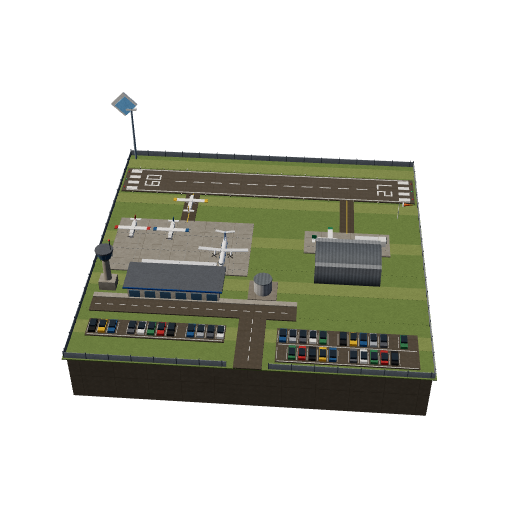
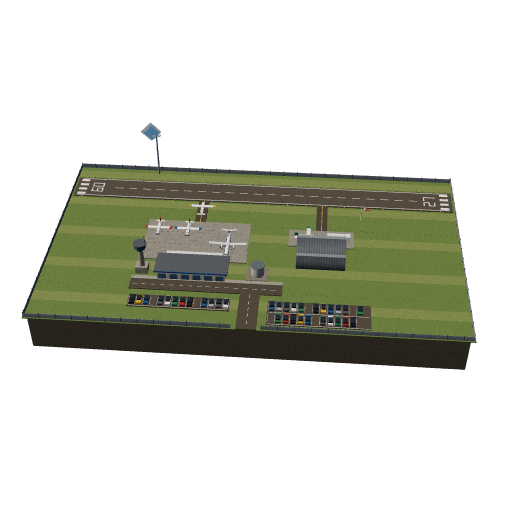
Airport 5x3 in the wiki data, pictures, blurb and docs; footprint notes in the art brief

Changed region(s): [[0.0312, 0.1875, 0.9375, 0.8125]]

diff --git a/src/sim/defs.ts b/src/sim/defs.ts
@@ -398,7 +398,7 @@ const DEFS = {
   } as SiteDef,
   airport: {
     label: 'Airport',
-    blurb: 'An air cargo terminal on a 3x3 field: the runway runs across the back and the road comes in at the front. Goods are loaded onto cargo planes here, and unloaded and sent into town when planes land. Upgrades build out the terminal, from airfield to regional to international.',
+    blurb: 'An air cargo terminal on a 5x3 field: a long runway runs across the back and the road comes in at the front, where an arrow shows the turn. Goods are loaded onto cargo planes here, and unloaded and sent into town when planes land. Upgrades build out the terminal, from airfield to regional to international.',
     real: 'Like a real air cargo terminal: freight is loaded onto planes and unloaded again.',
     category: 'logistics',
     cost: 2500,

diff --git a/src/r3d/airport.ts b/src/r3d/airport.ts
@@ -598,7 +598,7 @@ function international(p: Parts): void {
   perimeter(p);
 }
 
-/** The airport as it looks at a level: the 3x3-tile field with its runway, and the terminal that level adds. */
+/** The airport as it looks at a level: the 5x3-tile field with its long runway, and the terminal that level adds. */
 export function airportGeometry(level: number): THREE.BufferGeometry {
   const p = new Parts();
   field(p);

diff --git a/docs/09-model-and-art-brief.md b/docs/09-model-and-art-brief.md
@@ -35,7 +35,7 @@ By-products appear as piles or bins on the site (straw bales, husk heaps, feathe
 
 ## 2. Technical rules for every model
 
-- Format: glTF 2.0 (.glb), Y up, 1 unit = 1 metre-ish "game unit". One town tile is 3.3 units wide; a town lot pad is 2.6 x 2.6. Most sites stand on about a 3 x 3 tile ground area (airports, ports and campuses are larger: say so in the model name; confirm exact footprints with the game before final art).
+- Format: glTF 2.0 (.glb), Y up, 1 unit = 1 metre-ish "game unit". One town tile is 3.3 units wide; a town lot pad is 3.1 x 3.1 (`LOT` in src/scale.ts). A building on open ground holds a 2 x 2 tile block from the day it is placed: its body stands on one tile (3.1 wide) up to level 3 and fills the whole block (6.2 wide) from level 4. Town lots are one tile at every level. The airport is 5 x 3 tiles (16.4 x 9.8 units), long side along the runway, front (+z) where the road comes in. The game shrinks any model's plan to fit its ground and never squeezes height, so models should be authored to those widths.
 - Origin: centre of the footprint, on the ground (y = 0). The front or door faces +Z. Streets run along X and Z.
 - Style: low poly, flat or softly shaded colours, no baked dirt, small colour palette shared across models (a single 512 px palette texture or vertex colours). Wood, brick, tin, glass and metal read by colour alone.
 - Triangle budgets (the game draws hundreds at once and many players have laptops):

diff --git a/docs/02-progress-tracker.md b/docs/02-progress-tracker.md
@@ -502,3 +502,11 @@ Done earlier:
 - No HTML in any output
 - No emojis in any output
 - SVG icons only when genuinely needed
+
+#### Footprints, held ground and the wiki (0.197 to 0.205)
+- The airport is now a 5x3 rectangle (long runway across the back); R turns it and the long side turns with it. The old 3x3 note above is superseded.
+- One lot size (`LOT`, 3.1 units) for town lot pads, site fences and the fit rule. A model is shrunk to fit the ground it covers (`siteFit`), height is never squeezed.
+- New worlds: a building on open ground holds a 2x2 block from placement, and a building on a resource node holds one when there is room. Body is one tile to level 3, the whole block from level 4.
+- A building turned by hand is entered from its front tile (`entryTile`); an arrow marks it while placing and while drawing a road.
+- Land plots never include a town's grown footprint; no resource node lies inside one (tested).
+- The wiki data (`web/app/wiki/data.json`) and the model pictures (`docs/model-previews`) are regenerated with `node tools/export-wiki.cjs` and `node tools/model-gallery.cjs`.

diff --git a/docs/06-design-brief-for-claude.md b/docs/06-design-brief-for-claude.md
@@ -167,7 +167,7 @@ From tier 1 on, raw sites run about 1.5x slower so trucks and roads, not the gro
 | Warehouse | Stores goods. Holds overflow when buyers are full; factories next to it draw inputs from it. | 1 | 300 |
 | Rail Yard | Edge-of-town terminal where trains load and unload. | 2 | 3,000 |
 | Port | Coastal terminal for ships. | 2 | 4,000 |
-| Airport | 3x3 air cargo terminal. | 3 | 2,500 |
+| Airport | 5x3 air cargo terminal: a long runway across the back, the road in at the front. | 3 | 2,500 |
 
 Towns also have **Market** (everyday goods), **Supply Yard** (building materials only, built from lumber; see section 0A) and **Rail Station**. The player never places these; towns make them.
 
